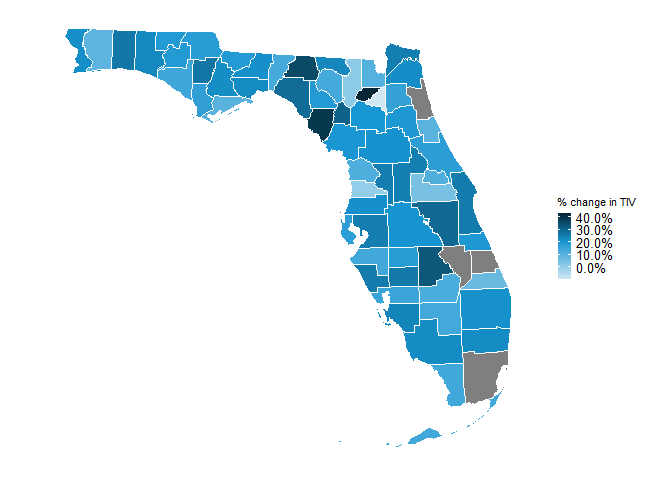
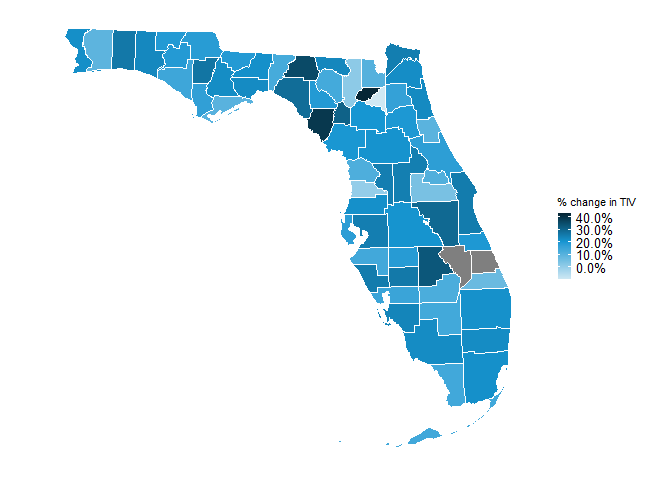
Update

Changed region(s): [[0.6875, 0.7188, 0.7812, 0.8438], [0.5938, 0.1562, 0.6562, 0.25]]

diff --git a/_posts/2021-01-28-Setting-Up-R-and-Configuring.md b/_posts/2021-01-28-Setting-Up-R-and-Configuring.md
@@ -246,6 +246,8 @@ names(grouped_data) = c("county_name","tiv2011","tiv2012","change")
 grouped_data$county_name = tolower(grouped_data$county_name)
 c = counties %>% filter(state_name == "Florida")
 c$county_name = tolower(c$county_name)
+grouped_data[20,1] = "st. johns county"
+grouped_data[29,1] = "miami-dade county"
 m = grouped_data %>% full_join(c, by = "county_name")
 p = m %>% ggplot(mapping = aes(long, lat, group = group, fill = change)) +
   geom_polygon(color = "#ffffff", size = .25) +
